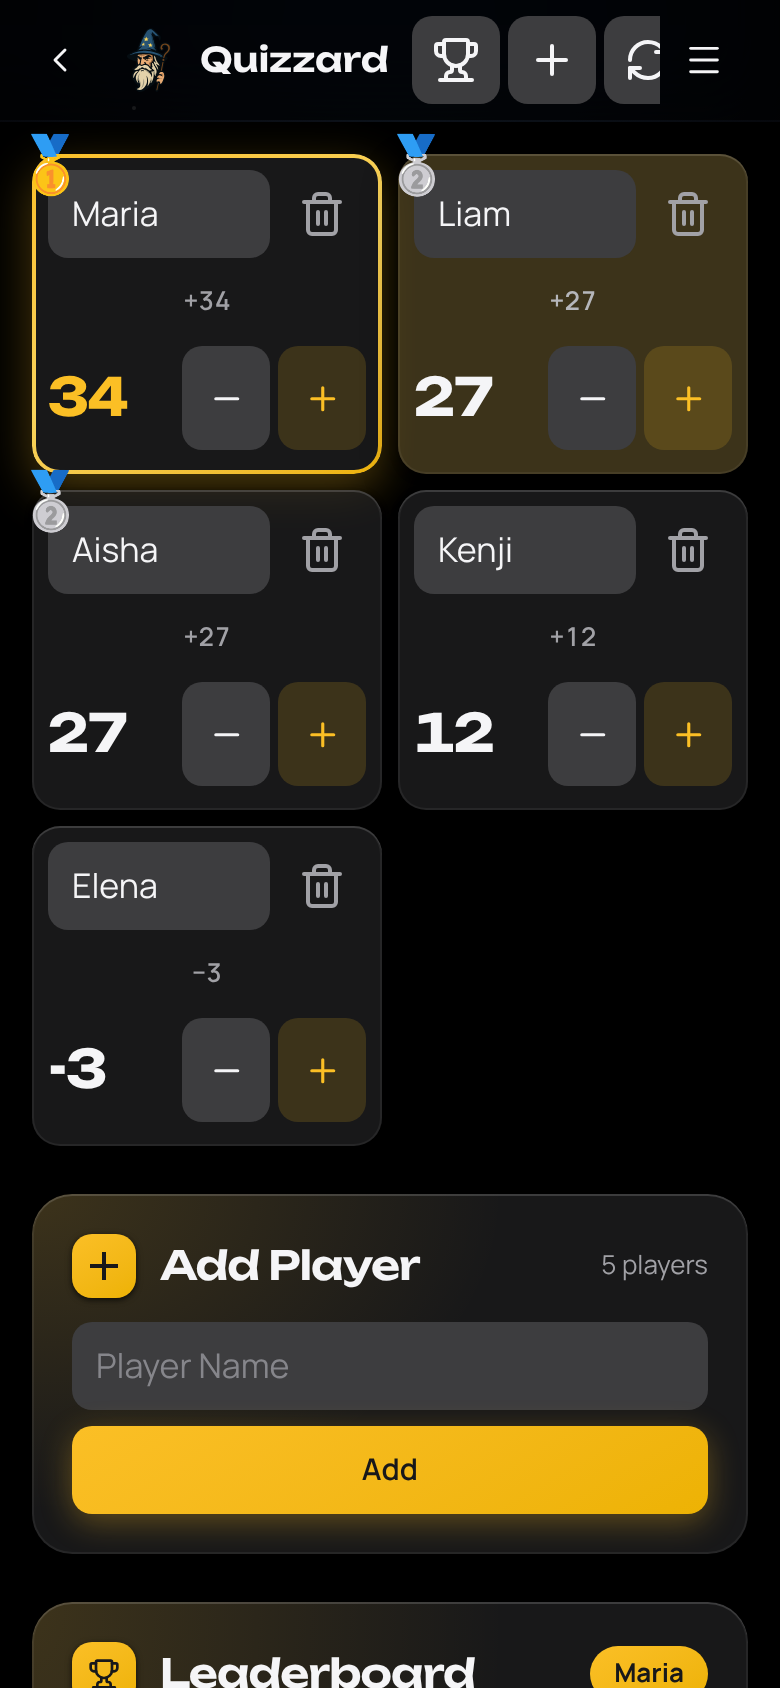
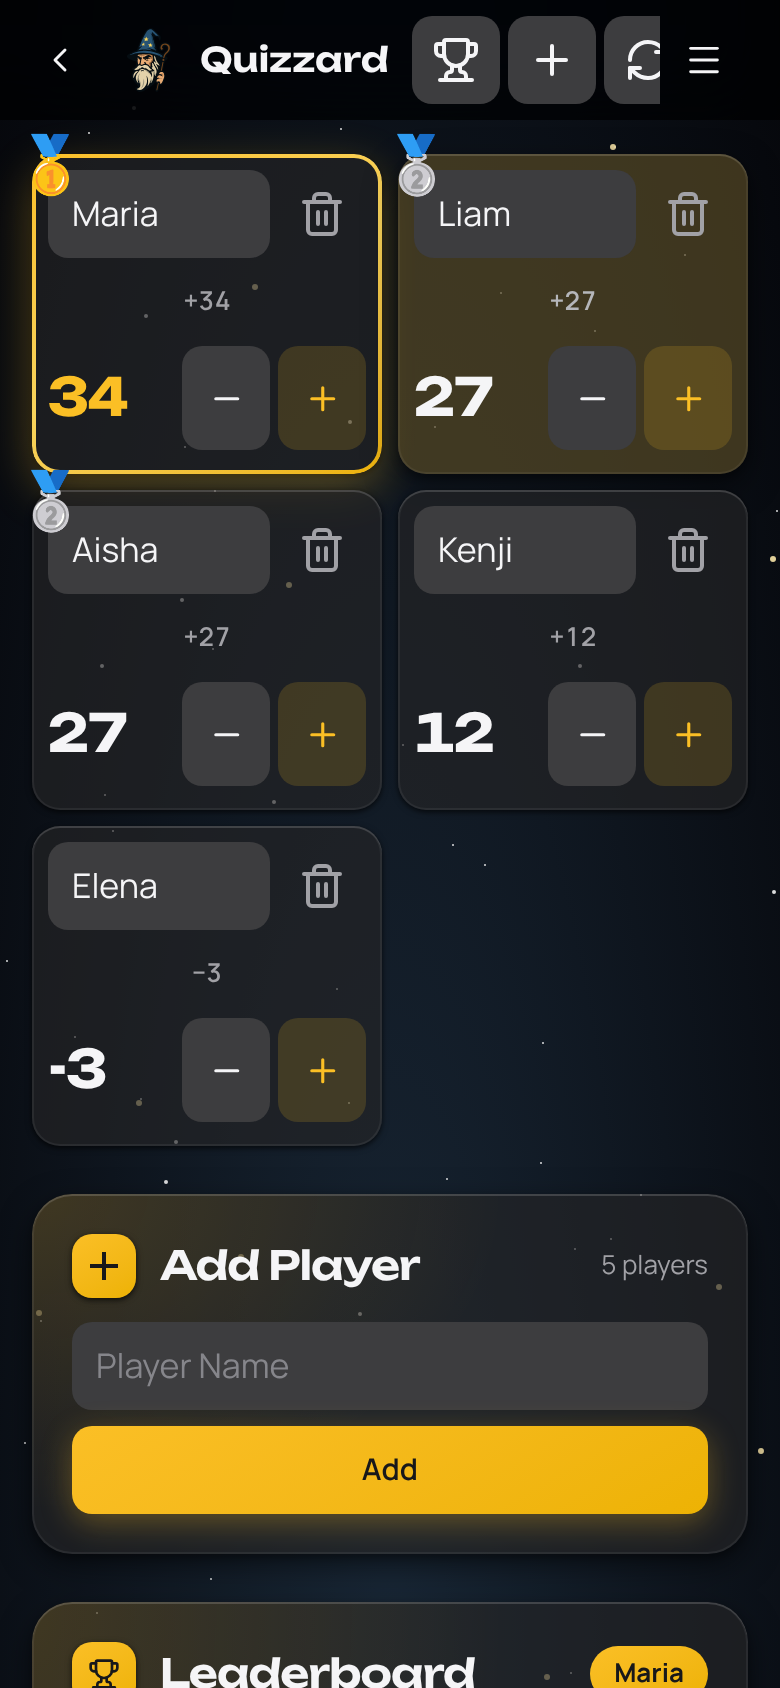
fix: the sun's beams pause while a tool is open (pseudo-elements were missed) — 0.16.3
Claude-Session: https://claude.ai/code/session_011u5MwhQ4SCvg7CGyrWTMMa

Changed region(s): [[0.0308, 0.2773, 0.9538, 0.7085], [0.0308, 0.8934, 0.9846, 0.955], [0.4308, 0.0616, 0.5846, 0.0924]]

diff --git a/app/src/styles/components/scene.css b/app/src/styles/components/scene.css
@@ -23,8 +23,13 @@
 
     /* A tool is open, or the screen is changing (the new picture of a screen change is live: a moving sky would
        be redrawn into it on every frame): the sky keeps its place. */
+    /* The pseudo-elements too: the sun's beams turn on ::before and ::after, which `*` does not reach. */
     :root[data-tool] & *,
-    :root:active-view-transition & * {
+    :root[data-tool] & *::before,
+    :root[data-tool] & *::after,
+    :root:active-view-transition & *,
+    :root:active-view-transition & *::before,
+    :root:active-view-transition & *::after {
       animation-play-state: paused;
     }
   }

diff --git a/LEARNINGS.md b/LEARNINGS.md
@@ -18,3 +18,4 @@ Corrections captured for `/learn` (format: forge:flow → learn §1). Newest las
 - 2026-11-23 · Third lesson of the day on motion: I brought an endless animation back ("only a small one") after removing them, and CI WebKit went red again on every Home ↔ tool change. Rule: no `infinite` animation in the shell at all — ambient motion plays a few times and rests; and before blaming load, compare the red and green runs for the one thing they differ in.
 - 2026-11-23 · Moni waited three hours for 0.15.0 while I pushed guessed fixes for red WebKit runs (animations, blur, fonts) at 15 minutes each; the log had named the cause from the first red run: the app's own error screen (`<main class="es es--screen">` "intercepts pointer events"). Rules: (1) read the full first failure of a red run before changing anything — the call log, not the summary; (2) no second speculative fix: after one miss, add diagnostics and measure; (3) fixes for a browser I cannot run locally are proven on the branch with a manual CI run, never through main; (4) every promise of a browser API that can reject as a normal outcome (`ViewTransition.ready`, `share()`, `play()`, `requestFullscreen()`) gets a handler, and a test that forces that outcome.
 - 2026-11-23 · Moni: the splash name grew huge and then snapped small. Cause: the flight scaled onto the full-width row instead of the letters. Rule: an element that flies onto a target must land on a box of the same content size — check the measured widths before and after the flight (they must match), not only a screenshot.
+- 2026-11-23 · The scene's pause in tools missed the sun's beams: they turn on ::before/::after, which a `*` selector does not reach (Scores' motion tests caught it). Rule: a rule that stops animations lists `*`, `*::before` and `*::after`; a test counting running animations inside a tool guards it.
